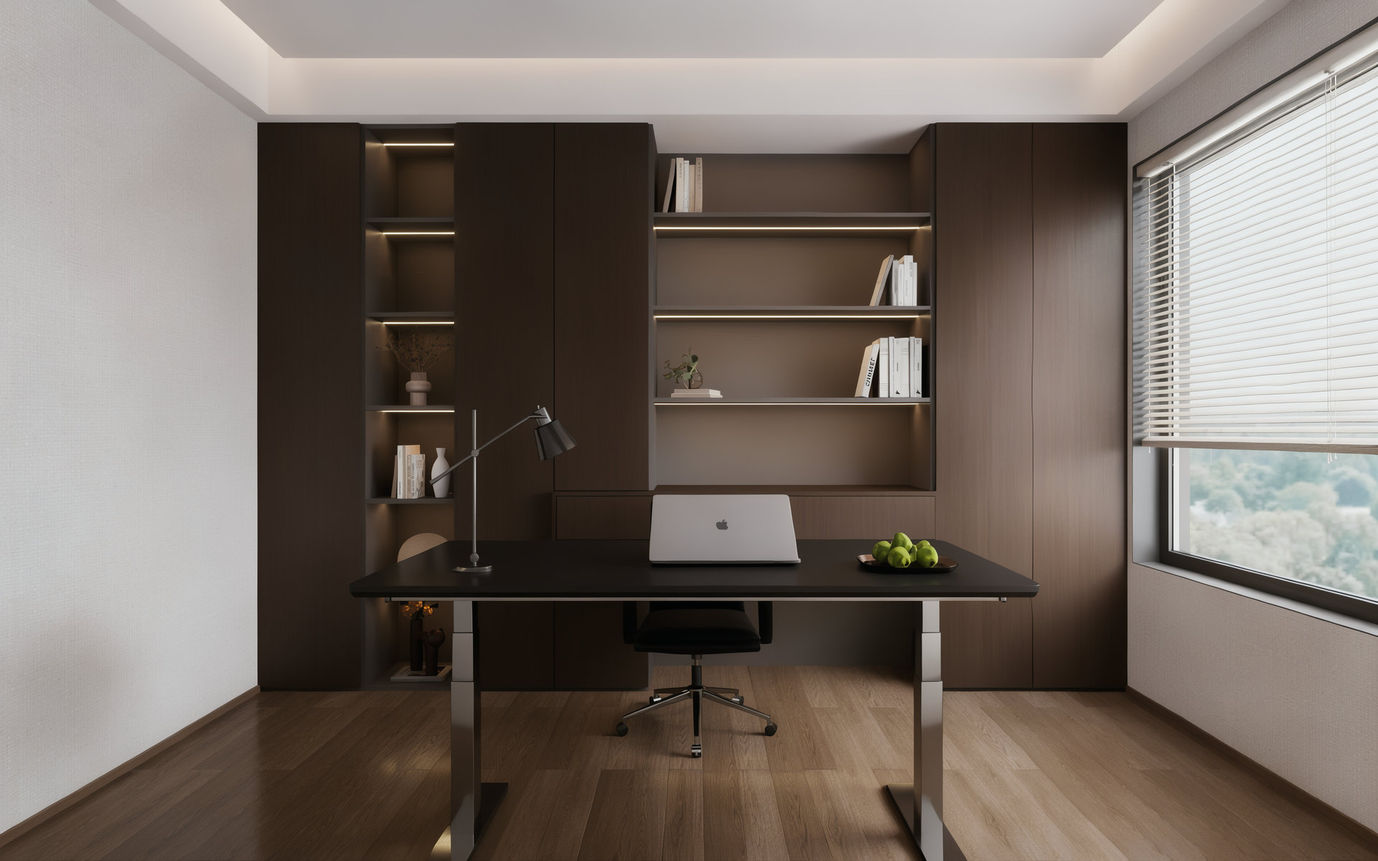
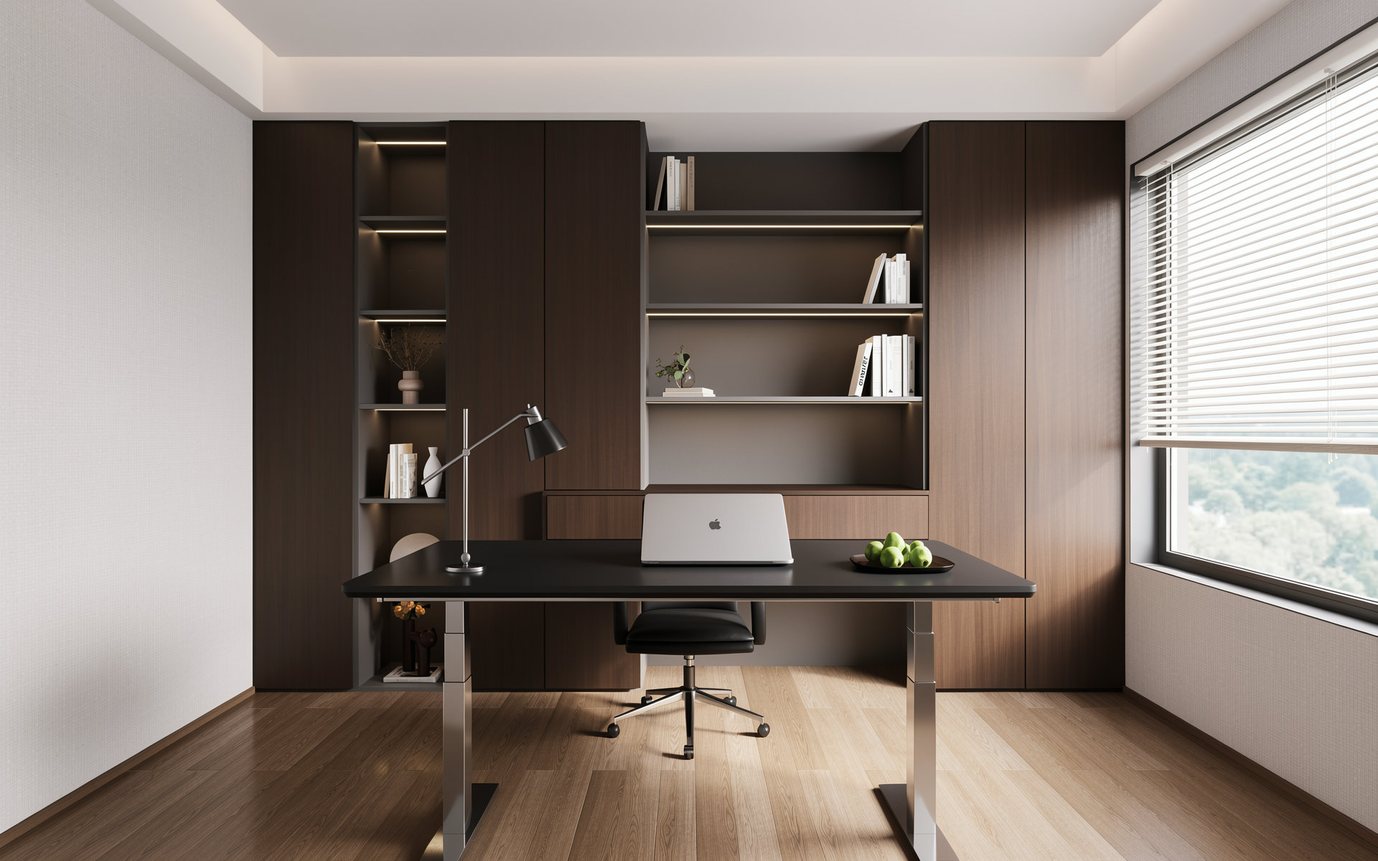
Correct 2K results for cases 41 to 48

diff --git a/2k-input-4k-offline-enhancement-review/app.js b/2k-input-4k-offline-enhancement-review/app.js
@@ -1,6 +1,6 @@
 (() => {
   const columns = [["original", "原图"], ["aiBeauty", "2K工作流效果"], ["f3", "4K工作流效果"]];
-  const scenes = [{"id":"scene-001","number":1,"images":{"original":"./assets/original/001.jpg","aiBeauty":"./assets/low2k/001.jpg","f3":"./assets/effect4k/001.jpg"},"thumbs":{"original":"./thumbs/original/001.jpg","aiBeauty":"./thumbs/low2k/001.jpg","f3":"./thumbs/effect4k/001.jpg"}},{"id":"scene-002","number":2,"images":{"original":"./assets/original/002.jpg","aiBeauty":"./assets/low2k/002.jpg","f3":"./assets/effect4k/002.jpg"},"thumbs":{"original":"./thumbs/original/002.jpg","aiBeauty":"./thumbs/low2k/002.jpg","f3":"./thumbs/effect4k/002.jpg"}},{"id":"scene-003","number":3,"images":{"original":"./assets/original/003.jpg","aiBeauty":"./assets/low2k/003.jpg","f3":"./assets/effect4k/003.jpg"},"thumbs":{"original":"./thumbs/original/003.jpg","aiBeauty":"./thumbs/low2k/003.jpg","f3":"./thumbs/effect4k/003.jpg"}},{"id":"scene-004","number":4,"images":{"original":"./assets/original/004.jpg","aiBeauty":"./assets/low2k/004.jpg","f3":"./assets/effect4k/004.jpg"},"thumbs":{"original":"./thumbs/original/004.jpg","aiBeauty":"./thumbs/low2k/004.jpg","f3":"./thumbs/effect4k/004.jpg"}},{"id":"scene-005","number":5,"images":{"original":"./assets/original/005.jpg","aiBeauty":"./assets/low2k/005.jpg","f3":"./assets/effect4k/005.jpg"},"thumbs":{"original":"./thumbs/original/005.jpg","aiBeauty":"./thumbs/low2k/005.jpg","f3":"./thumbs/effect4k/005.jpg"}},{"id":"scene-006","number":6,"images":{"original":"./assets/original/006.jpg","aiBeauty":"./assets/low2k/006.jpg","f3":"./assets/effect4k/006.jpg"},"thumbs":{"original":"./thumbs/original/006.jpg","aiBeauty":"./thumbs/low2k/006.jpg","f3":"./thumbs/effect4k/006.jpg"}},{"id":"scene-007","number":7,"images":{"original":"./assets/original/007.jpg","aiBeauty":"./assets/low2k/007.jpg","f3":"./assets/effect4k/007.jpg"},"thumbs":{"original":"./thumbs/original/007.jpg","aiBeauty":"./thumbs/low2k/007.jpg","f3":"./thumbs/effect4k/007.jpg"}},{"id":"scene-008","number":8,"images":{"original":"./assets/original/008.jpg","aiBeauty":"./assets/low2k/008.jpg","f3":"./assets/effect4k/008.jpg"},"thumbs":{"original":"./thumbs/original/008.jpg","aiBeauty":"./thumbs/low2k/008.jpg","f3":"./thumbs/effect4k/008.jpg"}},{"id":"scene-009","number":9,"images":{"original":"./assets/original/009.jpg","aiBeauty":"./assets/low2k/009.jpg","f3":"./assets/effect4k/009.jpg"},"thumbs":{"original":"./thumbs/original/009.jpg","aiBeauty":"./thumbs/low2k/009.jpg","f3":"./thumbs/effect4k/009.jpg"}},{"id":"scene-010","number":10,"images":{"original":"./assets/original/010.jpg","aiBeauty":"./assets/low2k/010.jpg","f3":"./assets/effect4k/010.jpg"},"thumbs":{"original":"./thumbs/original/010.jpg","aiBeauty":"./thumbs/low2k/010.jpg","f3":"./thumbs/effect4k/010.jpg"}},{"id":"scene-011","number":11,"images":{"original":"./assets/original/011.jpg","aiBeauty":"./assets/low2k/011.jpg","f3":"./assets/effect4k/011.jpg"},"thumbs":{"original":"./thumbs/original/011.jpg","aiBeauty":"./thumbs/low2k/011.jpg","f3":"./thumbs/effect4k/011.jpg"}},{"id":"scene-012","number":12,"images":{"original":"./assets/original/012.jpg","aiBeauty":"./assets/low2k/012.jpg","f3":"./assets/effect4k/012.jpg"},"thumbs":{"original":"./thumbs/original/012.jpg","aiBeauty":"./thumbs/low2k/012.jpg","f3":"./thumbs/effect4k/012.jpg"}},{"id":"scene-013","number":13,"images":{"original":"./assets/original/013.jpg","aiBeauty":"./assets/low2k/013.jpg","f3":"./assets/effect4k/013.jpg"},"thumbs":{"original":"./thumbs/original/013.jpg","aiBeauty":"./thumbs/low2k/013.jpg","f3":"./thumbs/effect4k/013.jpg"}},{"id":"scene-014","number":14,"images":{"original":"./assets/original/014.jpg","aiBeauty":"./assets/low2k/014.jpg","f3":"./assets/effect4k/014.jpg"},"thumbs":{"original":"./thumbs/original/014.jpg","aiBeauty":"./thumbs/low2k/014.jpg","f3":"./thumbs/effect4k/014.jpg"}},{"id":"scene-015","number":15,"images":{"original":"./assets/original/015.jpg","aiBeauty":"./assets/low2k/015.jpg","f3":"./assets/effect4k/015.jpg"},"thumbs":{"original":"./thumbs/original/015.jpg","aiBeauty":"./thumbs/low2k/015.jpg","f3":"./thumbs/effect4k/015.jpg"}},{"id":"scene-016","number":16,"images":{"original":"./assets/original/016.jpg","aiBeauty":"./assets/low2k/016.jpg","f3":"./assets/effect4k/016.jpg"},"thumbs":{"original":"./thumbs/original/016.jpg","aiBeauty":"./thumbs/low2k/016.jpg","f3":"./thumbs/effect4k/016.jpg"}},{"id":"scene-017","number":17,"images":{"original":"./assets/original/017.jpg","aiBeauty":"./assets/low2k/017.jpg","f3":"./assets/effect4k/017.jpg"},"thumbs":{"original":"./thumbs/original/017.jpg","aiBeauty":"./thumbs/low2k/017.jpg","f3":"./thumbs/effect4k/017.jpg"}},{"id":"scene-018","number":18,"images":{"original":"./assets/original/018.jpg","aiBeauty":"./assets/low2k/018.jpg","f3":"./assets/effect4k/018.jpg"},"thumbs":{"original":"./thumbs/original/018.jpg","aiBeauty":"./thumbs/low2k/018.jpg","f3":"./thumbs/effect4k/018.jpg"}},{"id":"scene-019","number":19,"images":{"original":"./assets/original/019.jpg","aiBeauty":"./assets/low2k/019.jpg","f3":"./assets/effect4k/019.jpg"},"thumbs":{"original":"./thumbs/original/019.jpg","aiBeauty":"./thumbs/low2k/019.jpg","f3":"./thumbs/effect4k/019.jpg"}},{"id":"scene-020","number":20,"images":{"original":"./assets/original/020.jpg","aiBeauty":"./assets/low2k/020.jpg","f3":"./assets/effect4k/020.jpg"},"thumbs":{"original":"./thumbs/original/020.jpg","aiBeauty":"./thumbs/low2k/020.jpg","f3":"./thumbs/effect4k/020.jpg"}},{"id":"scene-021","number":21,"images":{"original":"./assets/original/021.jpg","aiBeauty":"./assets/low2k/021.jpg","f3":"./assets/effect4k/021.jpg"},"thumbs":{"original":"./thumbs/original/021.jpg","aiBeauty":"./thumbs/low2k/021.jpg","f3":"./thumbs/effect4k/021.jpg"}},{"id":"scene-022","number":22,"images":{"original":"./assets/original/022.jpg","aiBeauty":"./assets/low2k/022.jpg","f3":"./assets/effect4k/022.jpg"},"thumbs":{"original":"./thumbs/original/022.jpg","aiBeauty":"./thumbs/low2k/022.jpg","f3":"./thumbs/effect4k/022.jpg"}},{"id":"scene-023","number":23,"images":{"original":"./assets/original/023.jpg","aiBeauty":"./assets/low2k/023.jpg","f3":"./assets/effect4k/023.jpg"},"thumbs":{"original":"./thumbs/original/023.jpg","aiBeauty":"./thumbs/low2k/023.jpg","f3":"./thumbs/effect4k/023.jpg"}},{"id":"scene-024","number":24,"images":{"original":"./assets/original/024.jpg","aiBeauty":"./assets/low2k/024.jpg","f3":"./assets/effect4k/024.jpg"},"thumbs":{"original":"./thumbs/original/024.jpg","aiBeauty":"./thumbs/low2k/024.jpg","f3":"./thumbs/effect4k/024.jpg"}},{"id":"scene-025","number":25,"images":{"original":"./assets/original/025.jpg","aiBeauty":"./assets/low2k/025.jpg","f3":"./assets/effect4k/025.jpg"},"thumbs":{"original":"./thumbs/original/025.jpg","aiBeauty":"./thumbs/low2k/025.jpg","f3":"./thumbs/effect4k/025.jpg"}},{"id":"scene-026","number":26,"images":{"original":"./assets/original/026.jpg","aiBeauty":"./assets/low2k/026.jpg","f3":"./assets/effect4k/026.jpg"},"thumbs":{"original":"./thumbs/original/026.jpg","aiBeauty":"./thumbs/low2k/026.jpg","f3":"./thumbs/effect4k/026.jpg"}},{"id":"scene-027","number":27,"images":{"original":"./assets/original/027.jpg","aiBeauty":"./assets/low2k/027.jpg","f3":"./assets/effect4k/027.jpg"},"thumbs":{"original":"./thumbs/original/027.jpg","aiBeauty":"./thumbs/low2k/027.jpg","f3":"./thumbs/effect4k/027.jpg"}},{"id":"scene-028","number":28,"images":{"original":"./assets/original/028.jpg","aiBeauty":"./assets/low2k/028.jpg","f3":"./assets/effect4k/028.jpg"},"thumbs":{"original":"./thumbs/original/028.jpg","aiBeauty":"./thumbs/low2k/028.jpg","f3":"./thumbs/effect4k/028.jpg"}},{"id":"scene-029","number":29,"images":{"original":"./assets/original/029.jpg","aiBeauty":"./assets/low2k/029.jpg","f3":"./assets/effect4k/029.jpg"},"thumbs":{"original":"./thumbs/original/029.jpg","aiBeauty":"./thumbs/low2k/029.jpg","f3":"./thumbs/effect4k/029.jpg"}},{"id":"scene-030","number":30,"images":{"original":"./assets/original/030.jpg","aiBeauty":"./assets/low2k/030.jpg","f3":"./assets/effect4k/030.jpg"},"thumbs":{"original":"./thumbs/original/030.jpg","aiBeauty":"./thumbs/low2k/030.jpg","f3":"./thumbs/effect4k/030.jpg"}},{"id":"scene-031","number":31,"images":{"original":"./assets/original/031.jpg","aiBeauty":"./assets/low2k/031.jpg","f3":"./assets/effect4k/031.jpg"},"thumbs":{"original":"./thumbs/original/031.jpg","aiBeauty":"./thumbs/low2k/031.jpg","f3":"./thumbs/effect4k/031.jpg"}},{"id":"scene-032","number":32,"images":{"original":"./assets/original/032.jpg","aiBeauty":"./assets/low2k/032.jpg","f3":"./assets/effect4k/032.jpg"},"thumbs":{"original":"./thumbs/original/032.jpg","aiBeauty":"./thumbs/low2k/032.jpg","f3":"./thumbs/effect4k/032.jpg"}},{"id":"scene-033","number":33,"images":{"original":"./assets/original/033.jpg","aiBeauty":"./assets/low2k/033.jpg","f3":"./assets/effect4k/033.jpg"},"thumbs":{"original":"./thumbs/original/033.jpg","aiBeauty":"./thumbs/low2k/033.jpg","f3":"./thumbs/effect4k/033.jpg"}},{"id":"scene-034","number":34,"images":{"original":"./assets/original/034.jpg","aiBeauty":"./assets/low2k/034.jpg","f3":"./assets/effect4k/034.jpg"},"thumbs":{"original":"./thumbs/original/034.jpg","aiBeauty":"./thumbs/low2k/034.jpg","f3":"./thumbs/effect4k/034.jpg"}},{"id":"scene-035","number":35,"images":{"original":"./assets/original/035.jpg","aiBeauty":"./assets/low2k/035.jpg","f3":"./assets/effect4k/035.jpg"},"thumbs":{"original":"./thumbs/original/035.jpg","aiBeauty":"./thumbs/low2k/035.jpg","f3":"./thumbs/effect4k/035.jpg"}},{"id":"scene-036","number":36,"images":{"original":"./assets/original/036.jpg","aiBeauty":"./assets/low2k/036.jpg","f3":"./assets/effect4k/036.jpg"},"thumbs":{"original":"./thumbs/original/036.jpg","aiBeauty":"./thumbs/low2k/036.jpg","f3":"./thumbs/effect4k/036.jpg"}},{"id":"scene-037","number":37,"images":{"original":"./assets/original/037.jpg","aiBeauty":"./assets/low2k/037.jpg","f3":"./assets/effect4k/037.jpg"},"thumbs":{"original":"./thumbs/original/037.jpg","aiBeauty":"./thumbs/low2k/037.jpg","f3":"./thumbs/effect4k/037.jpg"}},{"id":"scene-038","number":38,"images":{"original":"./assets/original/038.jpg","aiBeauty":"./assets/low2k/038.jpg","f3":"./assets/effect4k/038.jpg"},"thumbs":{"original":"./thumbs/original/038.jpg","aiBeauty":"./thumbs/low2k/038.jpg","f3":"./thumbs/effect4k/038.jpg"}},{"id":"scene-039","number":39,"images":{"original":"./assets/original/039.jpg","aiBeauty":"./assets/low2k/039.jpg","f3":"./assets/effect4k/039.jpg"},"thumbs":{"original":"./thumbs/original/039.jpg","aiBeauty":"./thumbs/low2k/039.jpg","f3":"./thumbs/effect4k/039.jpg"}},{"id":"scene-040","number":40,"images":{"original":"./assets/original/040.jpg","aiBeauty":"./assets/low2k/040.jpg","f3":"./assets/effect4k/040.jpg"},"thumbs":{"original":"./thumbs/original/040.jpg","aiBeauty":"./thumbs/low2k/040.jpg","f3":"./thumbs/effect4k/040.jpg"}},{"id":"scene-041","number":41,"images":{"original":"./assets/original/041.jpg","aiBeauty":"./assets/low2k/041.jpg","f3":"./assets/effect4k/041.jpg"},"thumbs":{"original":"./thumbs/original/041.jpg","aiBeauty":"./thumbs/low2k/041.jpg","f3":"./thumbs/effect4k/041.jpg"}},{"id":"scene-042","number":42,"images":{"original":"./assets/original/042.jpg","aiBeauty":"./assets/low2k/042.jpg","f3":"./assets/effect4k/042.jpg"},"thumbs":{"original":"./thumbs/original/042.jpg","aiBeauty":"./thumbs/low2k/042.jpg","f3":"./thumbs/effect4k/042.jpg"}},{"id":"scene-043","number":43,"images":{"original":"./assets/original/043.jpg","aiBeauty":"./assets/low2k/043.jpg","f3":"./assets/effect4k/043.jpg"},"thumbs":{"original":"./thumbs/original/043.jpg","aiBeauty":"./thumbs/low2k/043.jpg","f3":"./thumbs/effect4k/043.jpg"}},{"id":"scene-044","number":44,"images":{"original":"./assets/original/044.jpg","aiBeauty":"./assets/low2k/044.jpg","f3":"./assets/effect4k/044.jpg"},"thumbs":{"original":"./thumbs/original/044.jpg","aiBeauty":"./thumbs/low2k/044.jpg","f3":"./thumbs/effect4k/044.jpg"}},{"id":"scene-045","number":45,"images":{"original":"./assets/original/045.jpg","aiBeauty":"./assets/low2k/045.jpg","f3":"./assets/effect4k/045.jpg"},"thumbs":{"original":"./thumbs/original/045.jpg","aiBeauty":"./thumbs/low2k/045.jpg","f3":"./thumbs/effect4k/045.jpg"}},{"id":"scene-046","number":46,"images":{"original":"./assets/original/046.jpg","aiBeauty":"./assets/low2k/046.jpg","f3":"./assets/effect4k/046.jpg"},"thumbs":{"original":"./thumbs/original/046.jpg","aiBeauty":"./thumbs/low2k/046.jpg","f3":"./thumbs/effect4k/046.jpg"}},{"id":"scene-047","number":47,"images":{"original":"./assets/original/047.jpg","aiBeauty":"./assets/low2k/047.jpg","f3":"./assets/effect4k/047.jpg"},"thumbs":{"original":"./thumbs/original/047.jpg","aiBeauty":"./thumbs/low2k/047.jpg","f3":"./thumbs/effect4k/047.jpg"}},{"id":"scene-048","number":48,"images":{"original":"./assets/original/048.jpg","aiBeauty":"./assets/low2k/048.jpg","f3":"./assets/effect4k/048.jpg"},"thumbs":{"original":"./thumbs/original/048.jpg","aiBeauty":"./thumbs/low2k/048.jpg","f3":"./thumbs/effect4k/048.jpg"}}];
+  const scenes = [{"id":"scene-001","number":1,"images":{"original":"./assets/original/001.jpg","aiBeauty":"./assets/low2k/001.jpg","f3":"./assets/effect4k/001.jpg"},"thumbs":{"original":"./thumbs/original/001.jpg","aiBeauty":"./thumbs/low2k/001.jpg","f3":"./thumbs/effect4k/001.jpg"}},{"id":"scene-002","number":2,"images":{"original":"./assets/original/002.jpg","aiBeauty":"./assets/low2k/002.jpg","f3":"./assets/effect4k/002.jpg"},"thumbs":{"original":"./thumbs/original/002.jpg","aiBeauty":"./thumbs/low2k/002.jpg","f3":"./thumbs/effect4k/002.jpg"}},{"id":"scene-003","number":3,"images":{"original":"./assets/original/003.jpg","aiBeauty":"./assets/low2k/003.jpg","f3":"./assets/effect4k/003.jpg"},"thumbs":{"original":"./thumbs/original/003.jpg","aiBeauty":"./thumbs/low2k/003.jpg","f3":"./thumbs/effect4k/003.jpg"}},{"id":"scene-004","number":4,"images":{"original":"./assets/original/004.jpg","aiBeauty":"./assets/low2k/004.jpg","f3":"./assets/effect4k/004.jpg"},"thumbs":{"original":"./thumbs/original/004.jpg","aiBeauty":"./thumbs/low2k/004.jpg","f3":"./thumbs/effect4k/004.jpg"}},{"id":"scene-005","number":5,"images":{"original":"./assets/original/005.jpg","aiBeauty":"./assets/low2k/005.jpg","f3":"./assets/effect4k/005.jpg"},"thumbs":{"original":"./thumbs/original/005.jpg","aiBeauty":"./thumbs/low2k/005.jpg","f3":"./thumbs/effect4k/005.jpg"}},{"id":"scene-006","number":6,"images":{"original":"./assets/original/006.jpg","aiBeauty":"./assets/low2k/006.jpg","f3":"./assets/effect4k/006.jpg"},"thumbs":{"original":"./thumbs/original/006.jpg","aiBeauty":"./thumbs/low2k/006.jpg","f3":"./thumbs/effect4k/006.jpg"}},{"id":"scene-007","number":7,"images":{"original":"./assets/original/007.jpg","aiBeauty":"./assets/low2k/007.jpg","f3":"./assets/effect4k/007.jpg"},"thumbs":{"original":"./thumbs/original/007.jpg","aiBeauty":"./thumbs/low2k/007.jpg","f3":"./thumbs/effect4k/007.jpg"}},{"id":"scene-008","number":8,"images":{"original":"./assets/original/008.jpg","aiBeauty":"./assets/low2k/008.jpg","f3":"./assets/effect4k/008.jpg"},"thumbs":{"original":"./thumbs/original/008.jpg","aiBeauty":"./thumbs/low2k/008.jpg","f3":"./thumbs/effect4k/008.jpg"}},{"id":"scene-009","number":9,"images":{"original":"./assets/original/009.jpg","aiBeauty":"./assets/low2k/009.jpg","f3":"./assets/effect4k/009.jpg"},"thumbs":{"original":"./thumbs/original/009.jpg","aiBeauty":"./thumbs/low2k/009.jpg","f3":"./thumbs/effect4k/009.jpg"}},{"id":"scene-010","number":10,"images":{"original":"./assets/original/010.jpg","aiBeauty":"./assets/low2k/010.jpg","f3":"./assets/effect4k/010.jpg"},"thumbs":{"original":"./thumbs/original/010.jpg","aiBeauty":"./thumbs/low2k/010.jpg","f3":"./thumbs/effect4k/010.jpg"}},{"id":"scene-011","number":11,"images":{"original":"./assets/original/011.jpg","aiBeauty":"./assets/low2k/011.jpg","f3":"./assets/effect4k/011.jpg"},"thumbs":{"original":"./thumbs/original/011.jpg","aiBeauty":"./thumbs/low2k/011.jpg","f3":"./thumbs/effect4k/011.jpg"}},{"id":"scene-012","number":12,"images":{"original":"./assets/original/012.jpg","aiBeauty":"./assets/low2k/012.jpg","f3":"./assets/effect4k/012.jpg"},"thumbs":{"original":"./thumbs/original/012.jpg","aiBeauty":"./thumbs/low2k/012.jpg","f3":"./thumbs/effect4k/012.jpg"}},{"id":"scene-013","number":13,"images":{"original":"./assets/original/013.jpg","aiBeauty":"./assets/low2k/013.jpg","f3":"./assets/effect4k/013.jpg"},"thumbs":{"original":"./thumbs/original/013.jpg","aiBeauty":"./thumbs/low2k/013.jpg","f3":"./thumbs/effect4k/013.jpg"}},{"id":"scene-014","number":14,"images":{"original":"./assets/original/014.jpg","aiBeauty":"./assets/low2k/014.jpg","f3":"./assets/effect4k/014.jpg"},"thumbs":{"original":"./thumbs/original/014.jpg","aiBeauty":"./thumbs/low2k/014.jpg","f3":"./thumbs/effect4k/014.jpg"}},{"id":"scene-015","number":15,"images":{"original":"./assets/original/015.jpg","aiBeauty":"./assets/low2k/015.jpg","f3":"./assets/effect4k/015.jpg"},"thumbs":{"original":"./thumbs/original/015.jpg","aiBeauty":"./thumbs/low2k/015.jpg","f3":"./thumbs/effect4k/015.jpg"}},{"id":"scene-016","number":16,"images":{"original":"./assets/original/016.jpg","aiBeauty":"./assets/low2k/016.jpg","f3":"./assets/effect4k/016.jpg"},"thumbs":{"original":"./thumbs/original/016.jpg","aiBeauty":"./thumbs/low2k/016.jpg","f3":"./thumbs/effect4k/016.jpg"}},{"id":"scene-017","number":17,"images":{"original":"./assets/original/017.jpg","aiBeauty":"./assets/low2k/017.jpg","f3":"./assets/effect4k/017.jpg"},"thumbs":{"original":"./thumbs/original/017.jpg","aiBeauty":"./thumbs/low2k/017.jpg","f3":"./thumbs/effect4k/017.jpg"}},{"id":"scene-018","number":18,"images":{"original":"./assets/original/018.jpg","aiBeauty":"./assets/low2k/018.jpg","f3":"./assets/effect4k/018.jpg"},"thumbs":{"original":"./thumbs/original/018.jpg","aiBeauty":"./thumbs/low2k/018.jpg","f3":"./thumbs/effect4k/018.jpg"}},{"id":"scene-019","number":19,"images":{"original":"./assets/original/019.jpg","aiBeauty":"./assets/low2k/019.jpg","f3":"./assets/effect4k/019.jpg"},"thumbs":{"original":"./thumbs/original/019.jpg","aiBeauty":"./thumbs/low2k/019.jpg","f3":"./thumbs/effect4k/019.jpg"}},{"id":"scene-020","number":20,"images":{"original":"./assets/original/020.jpg","aiBeauty":"./assets/low2k/020.jpg","f3":"./assets/effect4k/020.jpg"},"thumbs":{"original":"./thumbs/original/020.jpg","aiBeauty":"./thumbs/low2k/020.jpg","f3":"./thumbs/effect4k/020.jpg"}},{"id":"scene-021","number":21,"images":{"original":"./assets/original/021.jpg","aiBeauty":"./assets/low2k/021.jpg","f3":"./assets/effect4k/021.jpg"},"thumbs":{"original":"./thumbs/original/021.jpg","aiBeauty":"./thumbs/low2k/021.jpg","f3":"./thumbs/effect4k/021.jpg"}},{"id":"scene-022","number":22,"images":{"original":"./assets/original/022.jpg","aiBeauty":"./assets/low2k/022.jpg","f3":"./assets/effect4k/022.jpg"},"thumbs":{"original":"./thumbs/original/022.jpg","aiBeauty":"./thumbs/low2k/022.jpg","f3":"./thumbs/effect4k/022.jpg"}},{"id":"scene-023","number":23,"images":{"original":"./assets/original/023.jpg","aiBeauty":"./assets/low2k/023.jpg","f3":"./assets/effect4k/023.jpg"},"thumbs":{"original":"./thumbs/original/023.jpg","aiBeauty":"./thumbs/low2k/023.jpg","f3":"./thumbs/effect4k/023.jpg"}},{"id":"scene-024","number":24,"images":{"original":"./assets/original/024.jpg","aiBeauty":"./assets/low2k/024.jpg","f3":"./assets/effect4k/024.jpg"},"thumbs":{"original":"./thumbs/original/024.jpg","aiBeauty":"./thumbs/low2k/024.jpg","f3":"./thumbs/effect4k/024.jpg"}},{"id":"scene-025","number":25,"images":{"original":"./assets/original/025.jpg","aiBeauty":"./assets/low2k/025.jpg","f3":"./assets/effect4k/025.jpg"},"thumbs":{"original":"./thumbs/original/025.jpg","aiBeauty":"./thumbs/low2k/025.jpg","f3":"./thumbs/effect4k/025.jpg"}},{"id":"scene-026","number":26,"images":{"original":"./assets/original/026.jpg","aiBeauty":"./assets/low2k/026.jpg","f3":"./assets/effect4k/026.jpg"},"thumbs":{"original":"./thumbs/original/026.jpg","aiBeauty":"./thumbs/low2k/026.jpg","f3":"./thumbs/effect4k/026.jpg"}},{"id":"scene-027","number":27,"images":{"original":"./assets/original/027.jpg","aiBeauty":"./assets/low2k/027.jpg","f3":"./assets/effect4k/027.jpg"},"thumbs":{"original":"./thumbs/original/027.jpg","aiBeauty":"./thumbs/low2k/027.jpg","f3":"./thumbs/effect4k/027.jpg"}},{"id":"scene-028","number":28,"images":{"original":"./assets/original/028.jpg","aiBeauty":"./assets/low2k/028.jpg","f3":"./assets/effect4k/028.jpg"},"thumbs":{"original":"./thumbs/original/028.jpg","aiBeauty":"./thumbs/low2k/028.jpg","f3":"./thumbs/effect4k/028.jpg"}},{"id":"scene-029","number":29,"images":{"original":"./assets/original/029.jpg","aiBeauty":"./assets/low2k/029.jpg","f3":"./assets/effect4k/029.jpg"},"thumbs":{"original":"./thumbs/original/029.jpg","aiBeauty":"./thumbs/low2k/029.jpg","f3":"./thumbs/effect4k/029.jpg"}},{"id":"scene-030","number":30,"images":{"original":"./assets/original/030.jpg","aiBeauty":"./assets/low2k/030.jpg","f3":"./assets/effect4k/030.jpg"},"thumbs":{"original":"./thumbs/original/030.jpg","aiBeauty":"./thumbs/low2k/030.jpg","f3":"./thumbs/effect4k/030.jpg"}},{"id":"scene-031","number":31,"images":{"original":"./assets/original/031.jpg","aiBeauty":"./assets/low2k/031.jpg","f3":"./assets/effect4k/031.jpg"},"thumbs":{"original":"./thumbs/original/031.jpg","aiBeauty":"./thumbs/low2k/031.jpg","f3":"./thumbs/effect4k/031.jpg"}},{"id":"scene-032","number":32,"images":{"original":"./assets/original/032.jpg","aiBeauty":"./assets/low2k/032.jpg","f3":"./assets/effect4k/032.jpg"},"thumbs":{"original":"./thumbs/original/032.jpg","aiBeauty":"./thumbs/low2k/032.jpg","f3":"./thumbs/effect4k/032.jpg"}},{"id":"scene-033","number":33,"images":{"original":"./assets/original/033.jpg","aiBeauty":"./assets/low2k/033.jpg","f3":"./assets/effect4k/033.jpg"},"thumbs":{"original":"./thumbs/original/033.jpg","aiBeauty":"./thumbs/low2k/033.jpg","f3":"./thumbs/effect4k/033.jpg"}},{"id":"scene-034","number":34,"images":{"original":"./assets/original/034.jpg","aiBeauty":"./assets/low2k/034.jpg","f3":"./assets/effect4k/034.jpg"},"thumbs":{"original":"./thumbs/original/034.jpg","aiBeauty":"./thumbs/low2k/034.jpg","f3":"./thumbs/effect4k/034.jpg"}},{"id":"scene-035","number":35,"images":{"original":"./assets/original/035.jpg","aiBeauty":"./assets/low2k/035.jpg","f3":"./assets/effect4k/035.jpg"},"thumbs":{"original":"./thumbs/original/035.jpg","aiBeauty":"./thumbs/low2k/035.jpg","f3":"./thumbs/effect4k/035.jpg"}},{"id":"scene-036","number":36,"images":{"original":"./assets/original/036.jpg","aiBeauty":"./assets/low2k/036.jpg","f3":"./assets/effect4k/036.jpg"},"thumbs":{"original":"./thumbs/original/036.jpg","aiBeauty":"./thumbs/low2k/036.jpg","f3":"./thumbs/effect4k/036.jpg"}},{"id":"scene-037","number":37,"images":{"original":"./assets/original/037.jpg","aiBeauty":"./assets/low2k/037.jpg","f3":"./assets/effect4k/037.jpg"},"thumbs":{"original":"./thumbs/original/037.jpg","aiBeauty":"./thumbs/low2k/037.jpg","f3":"./thumbs/effect4k/037.jpg"}},{"id":"scene-038","number":38,"images":{"original":"./assets/original/038.jpg","aiBeauty":"./assets/low2k/038.jpg","f3":"./assets/effect4k/038.jpg"},"thumbs":{"original":"./thumbs/original/038.jpg","aiBeauty":"./thumbs/low2k/038.jpg","f3":"./thumbs/effect4k/038.jpg"}},{"id":"scene-039","number":39,"images":{"original":"./assets/original/039.jpg","aiBeauty":"./assets/low2k/039.jpg","f3":"./assets/effect4k/039.jpg"},"thumbs":{"original":"./thumbs/original/039.jpg","aiBeauty":"./thumbs/low2k/039.jpg","f3":"./thumbs/effect4k/039.jpg"}},{"id":"scene-040","number":40,"images":{"original":"./assets/original/040.jpg","aiBeauty":"./assets/low2k/040.jpg","f3":"./assets/effect4k/040.jpg"},"thumbs":{"original":"./thumbs/original/040.jpg","aiBeauty":"./thumbs/low2k/040.jpg","f3":"./thumbs/effect4k/040.jpg"}},{"id":"scene-041","number":41,"images":{"original":"./assets/original/041.jpg","aiBeauty":"./assets/low2k/041.jpg?v=corrected-0923","f3":"./assets/effect4k/041.jpg"},"thumbs":{"original":"./thumbs/original/041.jpg","aiBeauty":"./thumbs/low2k/041.jpg?v=corrected-0923","f3":"./thumbs/effect4k/041.jpg"}},{"id":"scene-042","number":42,"images":{"original":"./assets/original/042.jpg","aiBeauty":"./assets/low2k/042.jpg?v=corrected-0923","f3":"./assets/effect4k/042.jpg"},"thumbs":{"original":"./thumbs/original/042.jpg","aiBeauty":"./thumbs/low2k/042.jpg?v=corrected-0923","f3":"./thumbs/effect4k/042.jpg"}},{"id":"scene-043","number":43,"images":{"original":"./assets/original/043.jpg","aiBeauty":"./assets/low2k/043.jpg?v=corrected-0923","f3":"./assets/effect4k/043.jpg"},"thumbs":{"original":"./thumbs/original/043.jpg","aiBeauty":"./thumbs/low2k/043.jpg?v=corrected-0923","f3":"./thumbs/effect4k/043.jpg"}},{"id":"scene-044","number":44,"images":{"original":"./assets/original/044.jpg","aiBeauty":"./assets/low2k/044.jpg?v=corrected-0923","f3":"./assets/effect4k/044.jpg"},"thumbs":{"original":"./thumbs/original/044.jpg","aiBeauty":"./thumbs/low2k/044.jpg?v=corrected-0923","f3":"./thumbs/effect4k/044.jpg"}},{"id":"scene-045","number":45,"images":{"original":"./assets/original/045.jpg","aiBeauty":"./assets/low2k/045.jpg?v=corrected-0923","f3":"./assets/effect4k/045.jpg"},"thumbs":{"original":"./thumbs/original/045.jpg","aiBeauty":"./thumbs/low2k/045.jpg?v=corrected-0923","f3":"./thumbs/effect4k/045.jpg"}},{"id":"scene-046","number":46,"images":{"original":"./assets/original/046.jpg","aiBeauty":"./assets/low2k/046.jpg?v=corrected-0923","f3":"./assets/effect4k/046.jpg"},"thumbs":{"original":"./thumbs/original/046.jpg","aiBeauty":"./thumbs/low2k/046.jpg?v=corrected-0923","f3":"./thumbs/effect4k/046.jpg"}},{"id":"scene-047","number":47,"images":{"original":"./assets/original/047.jpg","aiBeauty":"./assets/low2k/047.jpg?v=corrected-0923","f3":"./assets/effect4k/047.jpg"},"thumbs":{"original":"./thumbs/original/047.jpg","aiBeauty":"./thumbs/low2k/047.jpg?v=corrected-0923","f3":"./thumbs/effect4k/047.jpg"}},{"id":"scene-048","number":48,"images":{"original":"./assets/original/048.jpg","aiBeauty":"./assets/low2k/048.jpg?v=corrected-0923","f3":"./assets/effect4k/048.jpg"},"thumbs":{"original":"./thumbs/original/048.jpg","aiBeauty":"./thumbs/low2k/048.jpg?v=corrected-0923","f3":"./thumbs/effect4k/048.jpg"}}];
   const app = document.querySelector("#app"); let query = "", singleState = null, interaction = null;
   const esc = v => String(v).replace(/[&<>"']/g, c => ({"&":"&amp;","<":"&lt;",">":"&gt;",'"':"&quot;","'":"&#039;"}[c]));
   function render(){const rows=scenes.filter(s=>!query||String(s.number).includes(query));app.innerHTML=`<div class="app"><header class="topbar"><div class="brand"><h1>4K离线工作流 2K图增强效果测试</h1></div><div class="summary"><strong>${rows.length}</strong> / ${scenes.length} 组</div></header><main class="shell"><div class="filterbar"><div class="filter-group"><span class="filter-label">测试结果</span></div><input class="search" value="${esc(query)}" placeholder="搜索序号" aria-label="搜索序号" /></div><section class="showcase"><div class="table-grid"><div class="th">序号</div>${columns.map(([k,l])=>`<div class="th ${k==="aiBeauty"?"th-2k":k==="f3"?"th-f3":""}">${esc(l)}</div>`).join("")}${rows.length?rows.map(row).join(""):`<div class="empty">未找到匹配序号</div>`}</div></section></main>${modalMarkup()}</div>`;bind();}
@@ -19,3 +19,4 @@
   function updateSplit(e,st){const rect=st.getBoundingClientRect(),value=Math.max(0,Math.min(100,(e.clientX-rect.left)/rect.width*100));st.style.setProperty("--split",`${value}%`)}function moveInteraction(e){if(!interaction)return;if(interaction.mode==="split"){updateSplit(e,interaction.st);return}const st=interaction.st,z=Number(st.dataset.zoom||1),maxX=st.clientWidth*(z-1)/2,maxY=st.clientHeight*(z-1)/2,x=Math.max(-maxX,Math.min(maxX,interaction.px+e.clientX-interaction.x)),y=Math.max(-maxY,Math.min(maxY,interaction.py+e.clientY-interaction.y));st.dataset.panX=x;st.dataset.panY=y;st.style.setProperty("--pan-x",`${x}px`);st.style.setProperty("--pan-y",`${y}px`)}
   function changeSingle(d){if(singleState){singleState.index=(singleState.index+d+columns.length)%columns.length;showSingle()}}function closeModal(){app.querySelector(".modal").classList.remove("open");singleState=null}addEventListener("keydown",e=>{if(!app.querySelector(".modal.open"))return;if(e.key==="Escape")closeModal();if(singleState&&e.key==="ArrowLeft")changeSingle(-1);if(singleState&&e.key==="ArrowRight")changeSingle(1)});render();
 })();
+

diff --git a/2k-input-4k-offline-enhancement-review/index.html b/2k-input-4k-offline-enhancement-review/index.html
@@ -9,7 +9,7 @@
 </head>
 <body>
   <div id="app"></div>
-  <script src="./app.js?v=review48-0923-detail"></script>
+  <script src="./app.js?v=review48-0923-low2k-fix"></script>
   <script src="./sync-viewer.js?v=0923-detail"></script>
 </body>
 </html>
